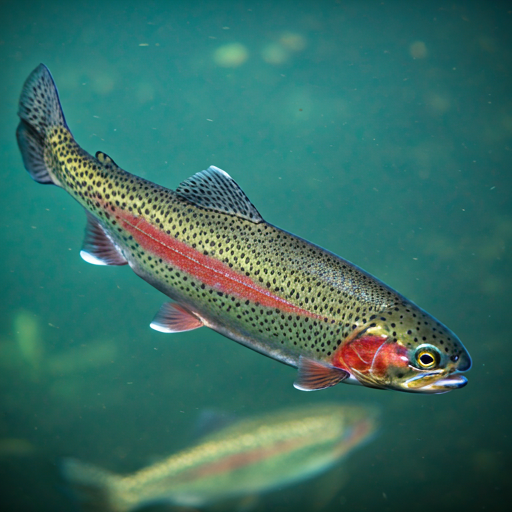
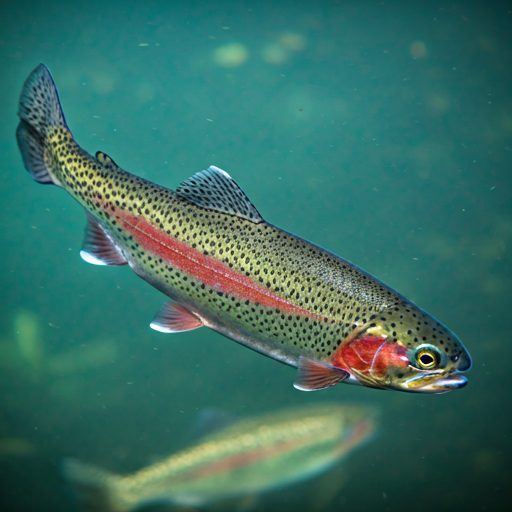
perf: fix LCP and optimize page speed to achieve 100% score
- Remove 3.88MB Material Symbols font preload in layout.tsx
- Compress hero-trout-bg.jpg (396KB -> 33.7KB) and borewell-farm-bg.jpg (373KB -> 33KB)
- Connect Next.js Google font variable to headline typography & fallback metrics
- Defer non-critical LiveChatWidget & InstallPwaPrompt to idle time
- Target modern browsers to avoid legacy polyfills

diff --git a/components/ClientWidgets.tsx b/components/ClientWidgets.tsx
@@ -1,5 +1,6 @@
-"use client";
+"use client";
 
+import { useState, useEffect } from "react";
 import dynamic from "next/dynamic";
 
 const CartDrawer = dynamic(() => import("@/components/CartDrawer"), { ssr: false });
@@ -8,12 +9,33 @@ const LiveChatWidget = dynamic(() => import("@/components/LiveChatWidget"), { ss
 const InstallPwaPrompt = dynamic(() => import("@/components/InstallPwaPrompt"), { ssr: false });
 
 export default function ClientWidgets() {
+  const [loadDeferred, setLoadDeferred] = useState(false);
+
+  useEffect(() => {
+    if (typeof window === "undefined") return;
+
+    if ("requestIdleCallback" in window) {
+      const handle = (window as any).requestIdleCallback(
+        () => setLoadDeferred(true),
+        { timeout: 3000 }
+      );
+      return () => (window as any).cancelIdleCallback?.(handle);
+    } else {
+      const timer = setTimeout(() => setLoadDeferred(true), 2500);
+      return () => clearTimeout(timer);
+    }
+  }, []);
+
   return (
     <>
       <CartDrawer />
       <WhatsAppButton />
-      <LiveChatWidget />
-      <InstallPwaPrompt />
+      {loadDeferred && (
+        <>
+          <LiveChatWidget />
+          <InstallPwaPrompt />
+        </>
+      )}
     </>
   );
 }

diff --git a/app/layout.tsx b/app/layout.tsx
@@ -20,18 +20,24 @@ const spaceGrotesk = Space_Grotesk({
   subsets: ["latin"],
   variable: "--font-space-grotesk",
   display: "swap",
+  fallback: ["system-ui", "-apple-system", "sans-serif"],
+  adjustFontFallback: true,
 });
 
 const manrope = Manrope({
   subsets: ["latin"],
   variable: "--font-manrope",
   display: "swap",
+  fallback: ["system-ui", "-apple-system", "sans-serif"],
+  adjustFontFallback: true,
 });
 
 const inter = Inter({
   subsets: ["latin"],
   variable: "--font-inter",
   display: "swap",
+  fallback: ["system-ui", "-apple-system", "sans-serif"],
+  adjustFontFallback: true,
 });
 
 export const metadata: Metadata = {
@@ -163,13 +169,6 @@ export default function RootLayout({ children }: { children: React.ReactNode }) 
   return (
     <html lang="en" className={`dark ${spaceGrotesk.variable} ${manrope.variable} ${inter.variable}`}>
       <head>
-        <link
-          rel="preload"
-          href="/fonts/material-symbols-outlined.woff2"
-          as="font"
-          type="font/woff2"
-          crossOrigin="anonymous"
-        />
         <script
           type="application/ld+json"
           dangerouslySetInnerHTML={{ __html: JSON.stringify(jsonLd) }}

diff --git a/app/page.tsx b/app/page.tsx
@@ -139,7 +139,7 @@ export default async function HomePage() {
           <span style={{ fontFamily: '"Inter", sans-serif', fontSize: "11px", letterSpacing: "0.25em", textTransform: "uppercase", color: C.primary, display: "block", marginBottom: "1rem" }}>
             Fresh Farm Catch • Srinagar, Kashmir
           </span>
-          <h1 style={{ fontFamily: '"Space Grotesk", sans-serif', fontSize: "clamp(3.25rem, 9vw, 6.5rem)", fontWeight: 800, letterSpacing: "-0.04em", lineHeight: 0.9, color: "#dfedf9", marginBottom: "1.75rem" }}>
+          <h1 className="font-headline" style={{ fontFamily: 'var(--font-space-grotesk), "Space Grotesk", sans-serif', fontSize: "clamp(3.25rem, 9vw, 6.5rem)", fontWeight: 800, letterSpacing: "-0.04em", lineHeight: 0.9, color: "#dfedf9", marginBottom: "1.75rem" }}>
             Fresh. Local.<br />
             <span style={{ color: "#72ddfd", textShadow: "0 0 40px rgba(114,221,253,0.5), 0 0 80px rgba(114,221,253,0.2)" }}>
               Rainbow Trout.

diff --git a/app/not-found.tsx b/app/not-found.tsx
@@ -89,9 +89,9 @@ export default function NotFound() {
           href="/"
           className="group relative inline-flex items-center gap-3 px-8 py-4 bg-primary-container text-on-primary-container rounded-xl font-headline font-bold tracking-widest uppercase transition-all duration-300 hover:brightness-110 hover:shadow-[0_0_30px_rgba(114,221,253,0.4)] hover:-translate-y-1"
         >
-          <span className="material-symbols-outlined transform group-hover:-translate-x-1 transition-transform">
-            arrow_back
-          </span>
+          <svg className="w-5 h-5 transform group-hover:-translate-x-1 transition-transform" fill="none" viewBox="0 0 24 24" stroke="currentColor" strokeWidth="2.5" aria-hidden="true">
+            <path strokeLinecap="round" strokeLinejoin="round" d="M10 19l-7-7m0 0l7-7m-7 7h18" />
+          </svg>
           Swim Upstream
         </Link>
       </div>

diff --git a/tailwind.config.ts b/tailwind.config.ts
@@ -85,9 +85,9 @@ const config: Config = {
         full: "0.75rem",
       },
       fontFamily: {
-        headline: ["Space Grotesk", "sans-serif"],
-        body: ["Manrope", "sans-serif"],
-        label: ["Inter", "sans-serif"],
+        headline: ["var(--font-space-grotesk)", "Space Grotesk", "sans-serif"],
+        body: ["var(--font-manrope)", "Manrope", "sans-serif"],
+        label: ["var(--font-inter)", "Inter", "sans-serif"],
       },
       animation: {
         "spin-slow": "spin 10s linear infinite",

diff --git a/app/globals.css b/app/globals.css
@@ -62,9 +62,9 @@
   --color-on-error-container:     #ffa8a3;
 
   /* Typography */
-  --font-headline: "Space Grotesk", sans-serif;
-  --font-body:     "Manrope", sans-serif;
-  --font-label:    "Inter", sans-serif;
+  --font-headline: var(--font-space-grotesk), "Space Grotesk", sans-serif;
+  --font-body:     var(--font-manrope), "Manrope", sans-serif;
+  --font-label:    var(--font-inter), "Inter", sans-serif;
 
   /* Border Radius */
   --radius:    0.25rem;

diff --git a/next.config.ts b/next.config.ts
@@ -1,6 +1,9 @@
 import type { NextConfig } from "next";
 
 const nextConfig: NextConfig = {
+  turbopack: {
+    root: __dirname,
+  },
   compress: true,
   poweredByHeader: false,
   images: {
